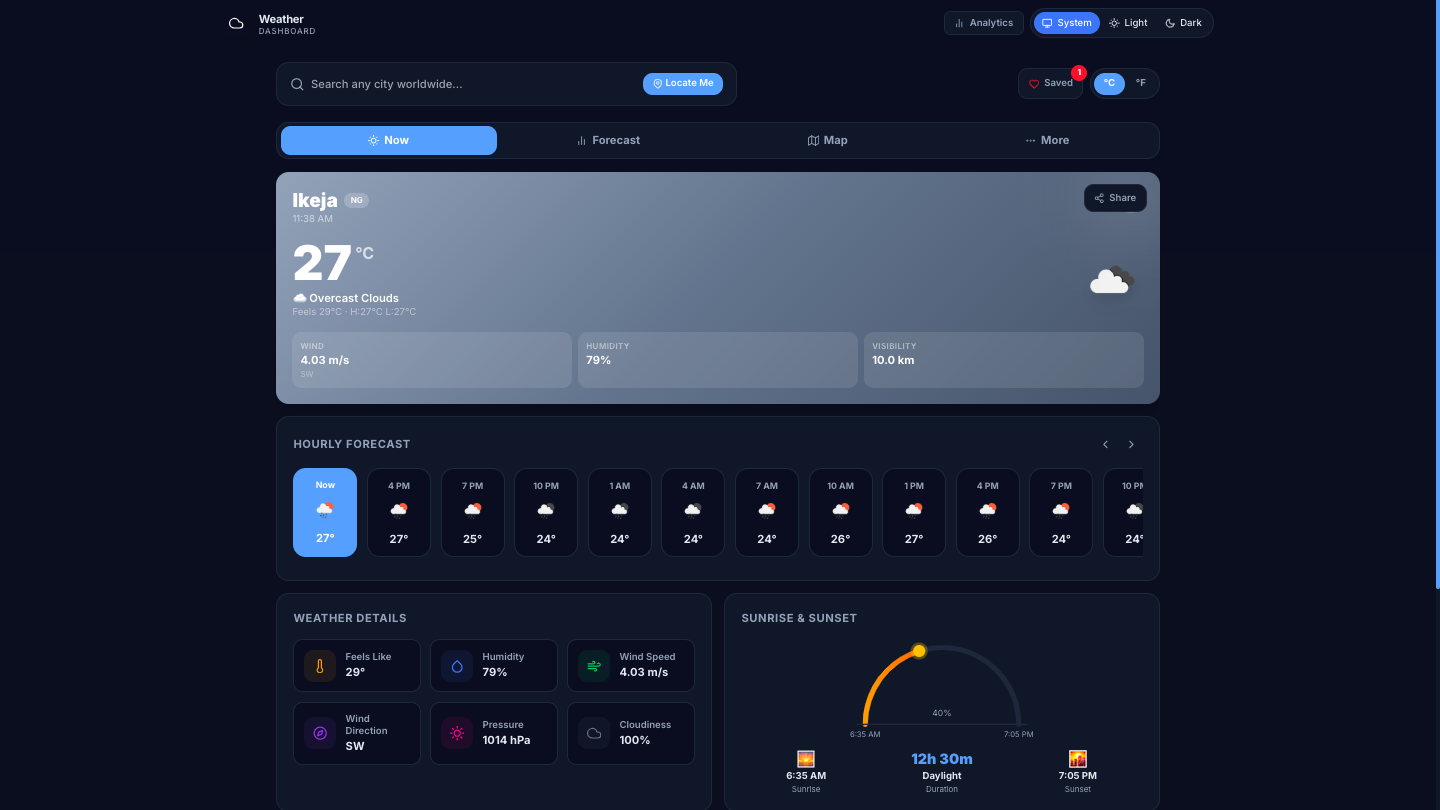
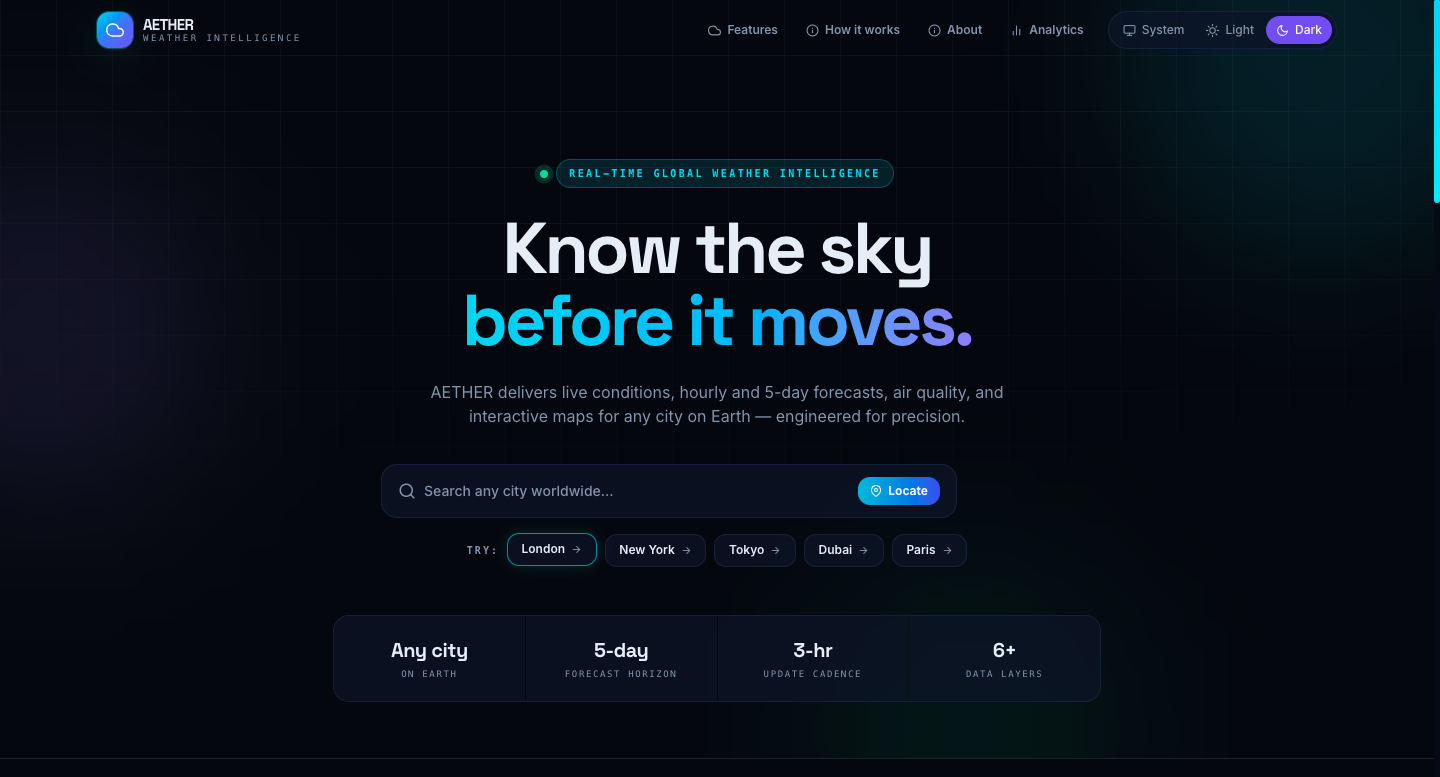
add two more projects to list

diff --git a/src/data/projects.ts b/src/data/projects.ts
@@ -1,4 +1,4 @@
-import { oyato1, oyato2, oyato3, oyato4, oyato5, spactrapay1, spactrapay2, spactrapay3, spactrapay4, omavon1, omavon2, omavon3, omavon4, omavon5, taskflow1, taskflow2, taskflow3, taskflow4, taskflow5, taskflow6, rent1, rent2, digi1, digi2, digi3, digi4, digi5, digi6, weather1, weather2, weather3, tip1, tip2, tip3 } from "../../public/project_image"
+import { oyato1, oyato2, oyato3, oyato4, oyato5, spactrapay1, spactrapay2, spactrapay3, spactrapay4, omavon1, omavon2, omavon3, omavon4, omavon5, taskflow1, taskflow2, taskflow3, taskflow4, taskflow5, taskflow6, rent1, rent2, digi1, digi2, digi3, digi4, digi5, digi6, weather1, weather2, weather3, weather4, weather5, tip1, tip2, tip3, tip4, scp1, scp2, cps1, cps2, cps3, cps4 } from "../../public/project_image"
 
 export const projectCategories = [
   { id: "all", name: "All" },
@@ -100,7 +100,7 @@ export const projectsData = [
     category: "tool",
     subtitle: "Real-time weather application",
     description: "A clean, fast weather forecast app with real-time data, location search, and responsive design.",
-    images: [weather1, weather2, weather3].map(img),
+    images: [weather1, weather2, weather3, weather4, weather5].map(img),
     liveUrl: "https://wforecast.vercel.app/",
     githubUrl: "https://github.com/Hemazyn/weather-forecast",
     technologies: ["React", "Tailwind CSS", "Weather API"],
@@ -113,10 +113,36 @@ export const projectsData = [
     category: "tool",
     subtitle: "Interview preparation platform",
     description: "A study tool for preparing for tech interviews with curated questions, topics, and practice resources.",
-    images: [tip1, tip2, tip3].map(img),
+    images: [tip1, tip2, tip3, tip4].map(img),
     liveUrl: "https://tipprep.vercel.app/",
     githubUrl: "https://github.com/Hemazyn/tech-interview",
     technologies: ["React", "Tailwind CSS"],
+    featured: false,
+  },
+  {
+    id: 9,
+    title: "Career Compass",
+    slug: "career-compass",
+    category: "tool",
+    subtitle: "Career guidance for Nigerian students",
+    description: "Live career maps for Nigerian students — from JSS3 stream choice to post-NYSC pivots. Reverse-engineers any career back to the JAMB subject combination, O'Level requirements, and stream decision needed today, with a RIASEC-based stream quiz, 22+ mapped careers, and a curated resource hub.",
+    images: [cps1, cps2, cps3, cps4].map(img),
+    liveUrl: "https://navigatepath.vercel.app/",
+    githubUrl: "https://github.com/Hemazyn/career-compass",
+    technologies: ["Next.js", "React", "TypeScript", "Tailwind CSS", "Zustand"],
+    featured: false,
+  },
+  {
+    id: 10,
+    title: "ScholarPath",
+    slug: "scholarpath",
+    category: "tool",
+    subtitle: "Scholarship discovery & application tracker",
+    description: "A scholarship platform with 10,000+ opportunities across 150+ countries. Powerful search and filtering, real-time alerts, a Kanban application tracker, a visa information center, and a smart eligibility checker that matches your profile to the right opportunities.",
+    images: [scp1, scp2].map(img),
+    liveUrl: "https://tryscholarpath.vercel.app/",
+    githubUrl: "https://github.com/Hemazyn/scholarpath",
+    technologies: ["Next.js", "React", "TypeScript", "Tailwind CSS"],
     featured: false,
   },
 ]

diff --git a/public/project_image/index.js b/public/project_image/index.js
@@ -35,9 +35,20 @@ import digi6 from "../project_image/digi6.png"
 import weather1 from "../project_image/weather1.png"
 import weather2 from "../project_image/weather2.png"
 import weather3 from "../project_image/weather3.png"
+import weather4 from "../project_image/weather4.png"
+import weather5 from "../project_image/weather5.png"
 
 import tip1 from "../project_image/tip1.png"
 import tip2 from "../project_image/tip2.png"
 import tip3 from "../project_image/tip3.png"
+import tip4 from "../project_image/tip4.png"
 
-export { oyato1, oyato2, oyato3, oyato4, oyato5, spactrapay1, spactrapay2, spactrapay3, spactrapay4, omavon1, omavon2, omavon3, omavon4, omavon5, taskflow1, taskflow2, taskflow3, taskflow4, taskflow5, taskflow6, rent1, rent2, digi1, digi2, digi3, digi4, digi5, digi6, weather1, weather2, weather3, tip1, tip2, tip3 }
+import scp1 from "../project_image/scp1.png"
+import scp2 from "../project_image/scp2.png"
+
+import cps1 from "../project_image/cps1.png"
+import cps2 from "../project_image/cps2.png"
+import cps3 from "../project_image/cps3.png"
+import cps4 from "../project_image/cps4.png"
+
+export { oyato1, oyato2, oyato3, oyato4, oyato5, spactrapay1, spactrapay2, spactrapay3, spactrapay4, omavon1, omavon2, omavon3, omavon4, omavon5, taskflow1, taskflow2, taskflow3, taskflow4, taskflow5, taskflow6, rent1, rent2, digi1, digi2, digi3, digi4, digi5, digi6, weather1, weather2, weather3, weather4, weather5, tip1, tip2, tip3, tip4, scp1, scp2, cps1, cps2, cps3, cps4 }
